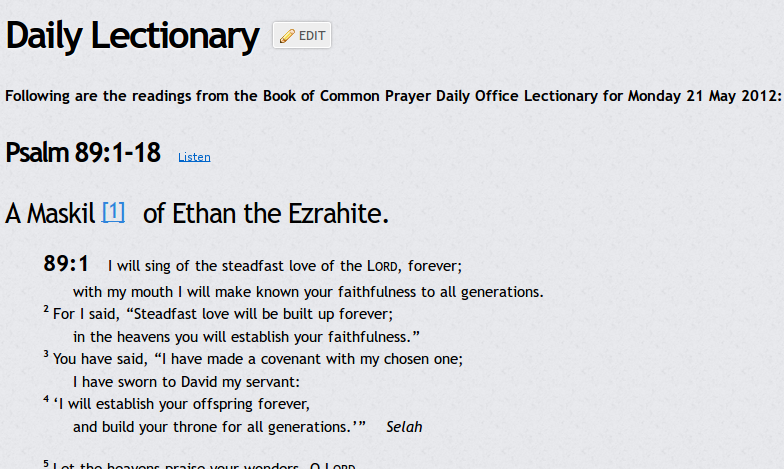
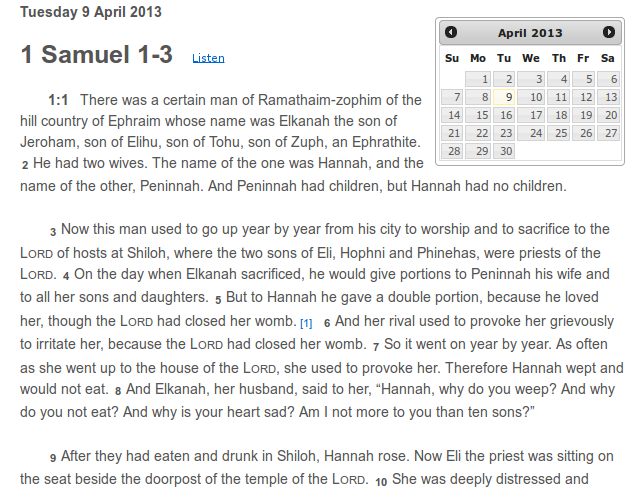
This version implements: 1. IMPORTANT CHANGE: A correction to the shortcode naming system: The shortcode is now [embed_bible_passage reading_plan='bcp']. (reading-plan has been changed to reading_plan. See http://codex.wordpress.org/Shortcode_API.) 2. The ability to use other than the default readin
git-svn-id: https://plugins.svn.wordpress.org/embed-bible-passages/trunk@695605 b8457f37-d9ea-0310-8a92-e5e31aec5664

diff --git a/css/embed-bible-passages.css b/css/embed-bible-passages.css
@@ -1,5 +1,15 @@
-/* Derived from http://www.gnpcb.org/esv/assets/style/text.css */
+#datepicker {
+	float: right;
+	font-size: 0.7em;
+	line-height: 1.0em;
+	margin: 15px 0 5px 10px;
+}
 
+.scriptures-date {
+	font-weight: bold;
+}
+
+/* The following (down to "Mobile") are derived from http://www.gnpcb.org/esv/assets/style/text.css */
 h3 {
 	text-align: left;
 	}
@@ -93,3 +103,18 @@ object.audio {
 	margin: 0 0 0 10px;
 	padding: 0;
 	}
+	
+/* Mobile
+-------------------------------------------------------------- */
+
+@media screen and (max-width: 480px) {
+	#datepicker {
+		float: none;
+		margin: 15px auto;
+	}
+	
+	.esv h2 {
+		margin-bottom: -17px;
+	}
+	
+}

diff --git a/embed-bible-passages-class.inc.php b/embed-bible-passages-class.inc.php
@@ -1,27 +1,39 @@
 <?php
 
 class EmbedBiblePassages {
-	/* Shortcode of the form [embed_bible_passage reading-plan='bcp'] are replaced by the scriptures from a Bible Reading Plan
+	/* Shortcode of the form [embed_bible_passage reading_plan='bcp'] are replaced by the scriptures from a Bible Reading Plan
 	 * of http://www.esvapi.org/api#readingPlanQuery.
 	 */
 
-	protected $access_key		= 'IP';
 	// NOTE THAT THE FOLLOWING COPYRIGHT NOTICE FROM THE SOURCE OF THE TEXT CROSSWAY BIBLE MUST BE KEPT ON THE PAGE.
-	protected $esv_copyright	= 'Scripture taken from The Holy Bible, English Standard Version. Copyright &copy;2001 by <a href="http://www.crosswaybibles.org" target="_blank">Crossway Bibles</a>, a publishing ministry of Good News Publishers. Used by permission. All rights reserved. Text provided by the <a href="http://www.gnpcb.org/esv/share/services/" target="_blank">Crossway Bibles Web Service</a>.';
-	protected $short_code_atts	= array(
-										'reading-plan' 	=> 'bcp',
-										);
+	protected $esv_copyright	= 'Scripture taken from The Holy Bible, English Standard Version. Copyright &copy;2001 by <a href="http://www.crosswaybibles.org" target="_blank">Crossway Bibles</a>, a publishing ministry of Good News Publishers. Used by permission. All rights reserved. Text provided by the <a href="http://www.gnpcb.org/esv/share/services/" target="_blank">Crossway Bibles Web Service</a>. Reader: David Cochran Heath.';
+	protected $access_key		= 'IP';
+	protected $date_format		= 'l j F Y';
 	protected $document_root	= '';
 	protected $plan_source_link	= 'http://www.esvapi.org/v2/rest/readingPlanQuery?include-headings=false';
-	protected $query_string		= '';
-	protected $plugin_path		= '';
+	protected $plugin_url		= '';
 	protected $post_id			= 0;
 	protected $powered_by		= 'Powered by<br /><a href="http://wordpress.org/extend/plugins/embed-bible-passages/" target="_blank" title="Embed Bible Passages">Embed Bible Passages</a><br />plugin for WordPress';
+	protected $query_string		= '';
+	protected $reading_plans	= array(
+										'bcp'						=> 'Book of Common Prayer',
+										'lsb'						=> 'Literary Study Bible',
+										'esv-study-bible'			=> 'ESV Study Bible',
+										'every-day-in-the-word'		=> 'Every Day in the Word',
+										'one-year-tract'			=> 'M&#039;Cheyne One-Year Reading Plan',
+										'outreach'					=> 'Outreach',
+										'outreach-nt'				=> 'Outreach New Testament',
+										'through-the-bible'			=> 'Through the Bible in a Year',
+										);
 	protected $show_poweredby	= false;
-
+	protected $short_code_atts	= array(
+										'reading_plan' 	=> 'bcp',
+										);
+	protected $use_calendar		= false;
+	
 	public function __construct () {
 		$this->document_root	= 'http://'.$_SERVER['SERVER_NAME'];
-		$this->plugin_path		= plugins_url('/embed-bible-passages/');
+		$this->plugin_url		= plugins_url('/embed-bible-passages/');
 		$this->access_key		= get_option('embed_bible_passages_access_key');
 		if (!$this->access_key) {
 			$this->access_key = 'IP';
@@ -31,6 +43,11 @@ class EmbedBiblePassages {
 		if ('' == $this->show_poweredby) {
 			$this->show_poweredby = false;
 			update_option('embed_bible_passages_show_poweredby', $this->show_poweredby);
+		}
+		$this->use_calendar		= get_option('embed_bible_passages_use_calendar');
+		if ('' == $this->use_calendar) {
+			$this->use_calendar = false;
+			update_option('embed_bible_passages_use_calendar', $this->use_calendar);
 		}
 		add_shortcode('embed_bible_passage', array(&$this, 'embedBiblePassage'));
 		add_shortcode('embed_passage_date', array(&$this, 'passageDate'));
@@ -46,17 +63,18 @@ class EmbedBiblePassages {
 			add_settings_field('embed_bible_passages_access_key_id', 'Access key', array(&$this, 'embed_bible_passages_setting_values'), $page_for_settings, $section_for_settings);
 			register_setting('embed_bible_passages_settings', 'embed_bible_passages_access_key', 'wp_filter_nohtml_kses');
 			register_setting('embed_bible_passages_settings', 'embed_bible_passages_show_poweredby');
+			register_setting('embed_bible_passages_settings', 'embed_bible_passages_use_calendar');
 		}
 	}
 
 	public function embed_bible_passages_section_heading () {
-		echo 'Access key (to request an access key fill out the form at <a href="http://www.esvapi.org/signup" target="_blank" title="ESV Bible Web Service - Request an API Key">http://www.esvapi.org/signup</a>):';
+		_e('Access key (to request an access key fill out the form at <a href="http://www.esvapi.org/signup" target="_blank" title="ESV Bible Web Service - Request an API Key">http://www.esvapi.org/signup</a>):');
 	}
 
 	public function embed_bible_passages_setting_values () {
-		$embed_bible_passages_access_key = get_option('embed_bible_passages_access_key');
-		echo '<input id="embed_bible_passages_access_key_input" name="embed_bible_passages_access_key" size="35" type="text" value="'.$embed_bible_passages_access_key.'" />';
-		echo '<div style="margin: 20px 0 10px -220px;"><input name="embed_bible_passages_show_poweredby" id="embed_bible_passages_show_poweredby_id" type="checkbox" value="1" class="code" ' . checked( 1, get_option('embed_bible_passages_show_poweredby'), false ) . ' /> Show "Powered by" attribution at bottom of page</div>';
+		echo '<input id="embed_bible_passages_access_key_input" name="embed_bible_passages_access_key" size="35" type="text" value="'.$this->access_key.'" />';
+		echo '<div style="margin: 20px 0 10px -220px;"><input name="embed_bible_passages_use_calendar" id="embed_bible_passages_use_calendar_id" type="checkbox" value="1" class="code" '.checked(true, $this->use_calendar, false).' /> Show Date Picker Calendar</div>';
+		echo '<div style="margin: 20px 0 10px -220px;"><input name="embed_bible_passages_show_poweredby" id="embed_bible_passages_show_poweredby_id" type="checkbox" value="1" class="code" '.checked(true, $this->show_poweredby, false).' /> Show "Powered by" attribution at bottom of page</div>';
 	}
 
 	public function admin_add_page() {
@@ -65,6 +83,25 @@ class EmbedBiblePassages {
 
 	public function draw_options_page () {
 		echo '<div><h2>Embed Bible Passages Options</h2>';
+		echo '<h3>Shortcode Format</h3>
+			<p>This plugin provides the ability to embed Bible readings from the <a href="http://www.esvapi.org/api#readingPlanQuery" target="_blank">ESV Bible Web Service</a> into a post or page using shortcode of the form [embed_bible_passage reading_plan=\'bcp\'].
+			</p><p>
+			The values of reading_plan can be:
+			<ul style="text-indent: 20px;">
+				<li>bcp						- Book of Common Prayer</li>
+				<li>lsb						- Literary Study Bible</li>
+				<li>esv-study-bible			- ESV Study Bible</li>
+				<li> every-day-in-the-word	- Every Day in the Word</li>
+				<li>one-year-tract			- M&#039;Cheyne One-Year Reading Plan</li>
+				<li>outreach				- Outreach</li>
+				<li>outreach-nt				- Outreach New Testament</li>
+				<li>through-the-bible		- Through the Bible in a Year</li>
+				</ul>
+			The default reading plan is bcp.</p>
+			<p>Note that only the bcp and through-the-bible options have been tested for this plugin. The other options are provided by the ESV Bible Web Service and should also work.</p>
+			<p>For more information about these reading plans, please see the <a href="http://www.esvbible.org/search/?q=devotions" target="_blank">ESVBible.org Devotions area</a>.</p>
+			<p>The page opens with the plan reading for the current date. A date picker calendar is available (see option below) to enable users to choose readings for other dates.</p>
+			<p>A tag to embed the current date is also available [embed_passage_date], although this is deprecated in favor of using the date picker calendar.</p>';
 		echo '<form method="post" action="options.php">';
 		settings_fields('embed_bible_passages_settings');
 		do_settings_sections('embed_bible_passages_plugin');
@@ -78,31 +115,73 @@ class EmbedBiblePassages {
 				<input type="image" src="https://www.paypalobjects.com/en_US/i/btn/btn_donateCC_LG.gif" border="0" name="submit" alt="PayPal - The safer, easier way to pay online!">
 				<img alt="" border="0" src="https://www.paypalobjects.com/en_US/i/scr/pixel.gif" width="1" height="1">
 				</form><div style="font-size: 0.8em;">"Do not muzzle an ox while it is treading out the grain." and "The worker deserves his wages." <a href="http://www.biblegateway.com/passage/?search=1%20Timothy+5:18&version=NIV" target="_blank">1 Timothy 5:18</a></div></div></div>';
+		echo '<p>The support of "<a href="http://www.thebiblechallenge.org/" target="_blank">The Bible Challenge</a>" for the development of several important features of this plugin is gratefully acknowledged.</p>';
 	}
 
 	public function passageDate () {
-		return date('l j F Y');
+		return date($this->date_format);
 	}
 
-
 	public function addCSS () {
-		echo '<link rel="stylesheet" href="'.$this->plugin_path.'css/embed-bible-passages.css" type="text/css" />';
+		wp_register_style('embed-bible-passages-jquery-ui', 'http://ajax.googleapis.com/ajax/libs/jqueryui/1.10.2/themes/smoothness/jquery-ui.css');
+		wp_enqueue_style('embed-bible-passages-jquery-ui');
+		wp_register_style('embed-bible-passages', $this->plugin_url.'css/embed-bible-passages.css', array('embed-bible-passages-jquery-ui',), null);
+		wp_enqueue_style('embed-bible-passages');
+	}
+	
+	public function enqueueScripts () {
+		wp_enqueue_script('jquery-ui-datepicker');
+	} 
+
+	public function addDatePicker () {
+		echo '
+			<script>
+				jQuery(function() {
+					jQuery("#datepicker").datepicker({
+						autoSize:	true,
+						onSelect:	function(dateText) {
+										jQuery("#scriptures").load("'.$this->plugin_url.'embed-bible-passages-get.php?'.$this->query_string.'&requested_date=" + dateText);
+									}
+					})
+				});
+			</script>';
 	}
 
 	public function embedBiblePassage ($atts) {
-		$this->query_string = http_build_query(shortcode_atts($this->short_code_atts, $atts));
-		return $this->getBiblePassage('Could not retrieve readings.');
+		extract(shortcode_atts($this->short_code_atts, $atts));
+		if (!in_array($reading_plan, array_keys($this->reading_plans))) {
+			$reading_plan = 'bcp'; // default
+		}
+		$this->query_string = "reading-plan=$reading_plan";
+		// Use mp3 instead of Flash if iPad or iPhone
+		if (strpos($_SERVER["HTTP_USER_AGENT"], 'iPhone') !== false || strpos($_SERVER["HTTP_USER_AGENT"], 'iPad') !== false) {
+			$this->query_string .= '&audio-format=mp3';
+		}
+		return $this->getBiblePassage();
 	}
 
-	protected function getBiblePassage ($error_message = '') {
+	public function getBiblePassage ($query_string = '', $error_message = 'Could not retrieve readings.') {
+		if ($query_string) {
+			$this->query_string  = $query_string;
+		} else {
+			$this->query_string .= '&date='.date('Y-m-d');
+		}
 		$ch = curl_init();
-		curl_setopt($ch, CURLOPT_URL, "$this->plan_source_link&key=$this->access_key&$this->query_string&date=".date(Y-m-d));
+		curl_setopt($ch, CURLOPT_URL, "$this->plan_source_link&key=$this->access_key&$this->query_string");
 		curl_setopt($ch, CURLOPT_VERBOSE, false);
 		curl_setopt($ch, CURLOPT_HEADER, false);
 		curl_setopt($ch, CURLOPT_RETURNTRANSFER, true);
 		$txt = trim(curl_exec($ch));
+		curl_close($ch);
 		if ($txt) {
-			$rtn_str  = $txt;
+			if ($this->use_calendar) {
+				parse_str($this->query_string);
+				list($year, $month, $day) = explode('-', $date);
+				$scriptures_date = date($this->date_format, mktime(0, 0, 1, $month, $day, $year));
+				$rtn_str  = '<span class="scriptures-date">'.$scriptures_date.'</span>'.$txt;
+			} else {
+				$rtn_str  = $txt;
+			}
 			$rtn_str .= '<div style="font-size: 0.8em; width: 50%; float: left; margin: 0;">'.$this->esv_copyright.'</div>';
 			$rtn_str .= '<div style="font-size: 0.8em; width: 50%; float: left; margin: 0; text-align: right;">';
 			if ($this->show_poweredby) {
@@ -114,8 +193,13 @@ class EmbedBiblePassages {
 		} else {
 			$rtn_str = $error_message;
 		}
-		curl_close($ch);
-		return $rtn_str;
+		if ($query_string) {
+			return $rtn_str;
+		} elseif ($this->use_calendar) {
+			return '<div title="'.__('Click on a date to open the readings for that day.').'" id="datepicker"></div><div id="scriptures">'.$rtn_str.'</div>';
+		} else {
+			return '<div id="scriptures">'.$rtn_str.'</div>';
+		}
 	}
 
 }

diff --git a/embed-bible-passages.php b/embed-bible-passages.php
@@ -1,18 +1,18 @@
 <?php
 /**
  * @package Embed Bible Passages
- * @version 0.211
+ * @version 0.7
  */
 /*
 /*
 Plugin Name: Embed Bible Passages
 Plugin URI:
 Description: Provides the ability to embed Bible Readings from the ESV Bible Web Service (http://www.esvapi.org/api#readingPlanQuery) into a post or page using shortcode of the form [embed_bible_passage reading-plan='bcp'].
-Version: 0.211
+Version: 0.7
 Author: M.D. Green
 Author URI: http://saesolved.com/
 
-Copyright 2011-2012 M.D. Green, SaeSolved:: LLC
+Copyright 2011-2013 M.D. Green, SaeSolved:: LLC
 
 This program is free software; you can redistribute it and/or modify it under the terms of the GNU General Public License as published by the
 Free Software Foundation; either version 2 of the License, or (at your option) any later version.

diff --git a/embed-bible-passages-hooks.inc.php b/embed-bible-passages-hooks.inc.php
@@ -4,6 +4,8 @@ if (class_exists('EmbedBiblePassages')) {
 	$bible_passage = new EmbedBiblePassages();
 	if (isset($bible_passage)) {
 		add_action('wp_head', array(&$bible_passage, 'addCSS'), 1);
+		add_action('wp_enqueue_scripts', array(&$bible_passage, 'enqueueScripts'));
+		add_action('wp_footer', array(&$bible_passage, 'addDatePicker'), 1);
 	}
 }
 
